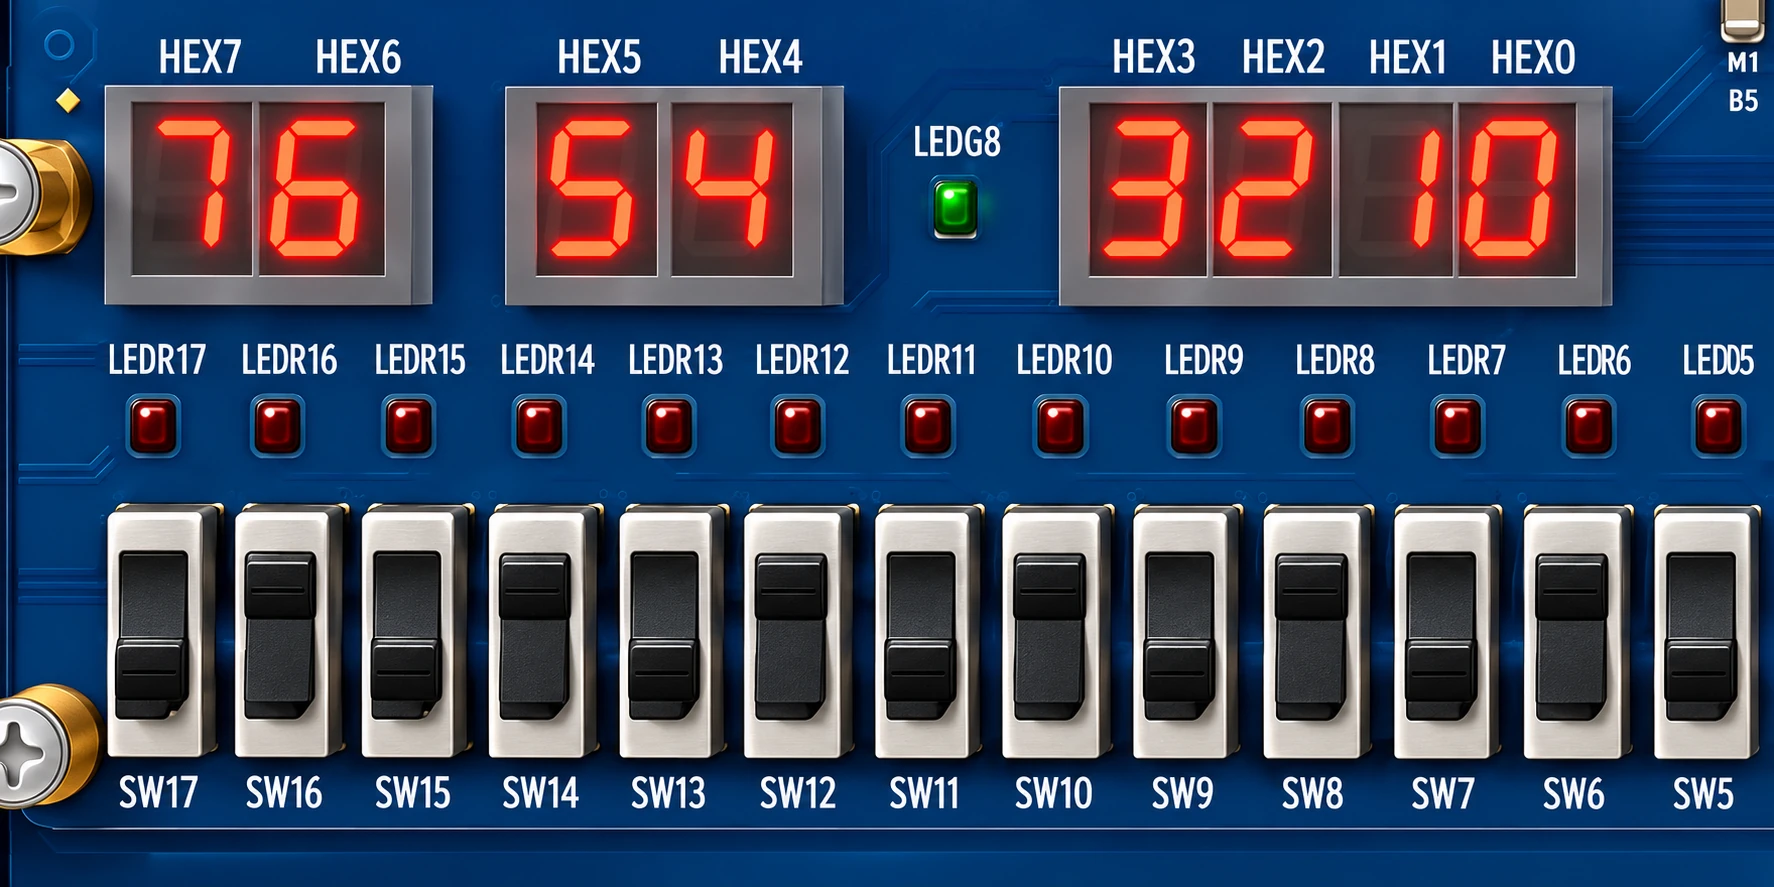
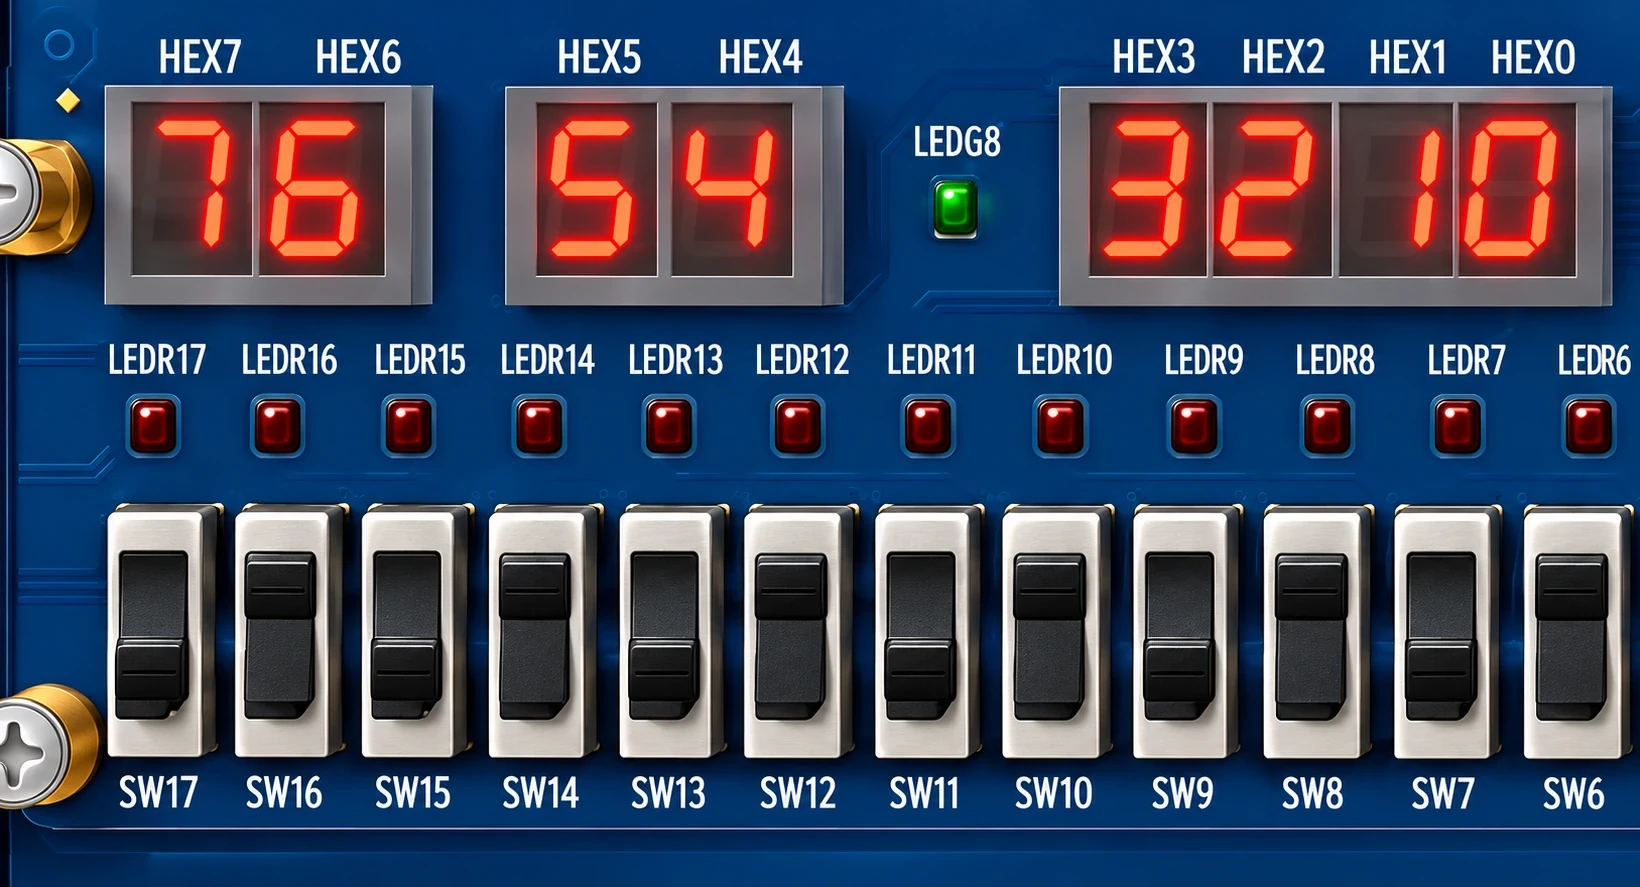
chore: site fixes from audit
- Meta description, Open Graph/Twitter card image, web manifest
- Real simulator imagery on the landing page; WebP assets; remove unused images
- README and CI updates (DE2 renderer tests in CI), TypeScript strict mode
- English user-facing messages

diff --git a/index.html b/index.html
@@ -11,6 +11,22 @@
     <link rel="apple-touch-icon" sizes="180x180" href="/apple-touch-icon.png" />
     <meta name="viewport" content="width=device-width, initial-scale=1.0" />
     <title>Logic Lab — Digital Logic Simulation</title>
+    <meta name="description" content="Write Verilog/SystemVerilog in the browser, run it on a virtual Altera DE2 board, and inspect waveforms and synthesized RTL schematics. No installation required." />
+    <meta name="theme-color" content="#081424" />
+    <link rel="canonical" href="https://lab.maliyildirimtr.com/" />
+    <link rel="manifest" href="/manifest.webmanifest" />
+    <meta property="og:type" content="website" />
+    <meta property="og:site_name" content="Logic Lab" />
+    <meta property="og:title" content="Logic Lab — Build digital logic. See it behave." />
+    <meta property="og:description" content="Browser-based FPGA lab: Verilog/SystemVerilog, a virtual Altera DE2 board, waveforms and RTL schematics." />
+    <meta property="og:url" content="https://lab.maliyildirimtr.com/" />
+    <meta property="og:image" content="https://lab.maliyildirimtr.com/og-image.png" />
+    <meta property="og:image:width" content="1200" />
+    <meta property="og:image:height" content="630" />
+    <meta name="twitter:card" content="summary_large_image" />
+    <meta name="twitter:title" content="Logic Lab — Build digital logic. See it behave." />
+    <meta name="twitter:description" content="Browser-based FPGA lab: Verilog/SystemVerilog, a virtual Altera DE2 board, waveforms and RTL schematics." />
+    <meta name="twitter:image" content="https://lab.maliyildirimtr.com/og-image.png" />
   </head>
   <body>
     <div id="root"></div>

diff --git a/src/components/landing/ToolShowcase.tsx b/src/components/landing/ToolShowcase.tsx
@@ -20,10 +20,10 @@ const TOOLS: Tool[] = [
     name: 'DE2 Simulator',
     to: '/de2-simulator',
     summary: 'Interact with the board directly from your HDL design.',
-    screenshot: '/landing/screens/de2-board-closeup-v2.webp',
-    alt: 'DE2 board close-up with the character LCD, HEX7–HEX0 displays, red and green LEDs, slide switches and push buttons',
-    width: 1947,
-    height: 808,
+    screenshot: '/landing/screens/de2-board-io.webp',
+    alt: 'The virtual DE2 board in the simulator: character LCD, HEX7–HEX0 displays, red and green LEDs, slide switches and push buttons',
+    width: 1112,
+    height: 507,
     modifier: 'de2',
   },
   {
@@ -53,10 +53,10 @@ const TOOLS: Tool[] = [
     name: 'Examples',
     to: '/examples',
     summary: 'Start from verified learning designs.',
-    screenshot: '/landing/screens/examples-v2.webp',
-    alt: 'Example cards for Basic Logic Gates, Half Adder, Full Adder, 2:1 and 4:1 multiplexers and a 2-to-4 decoder',
-    width: 1965,
-    height: 800,
+    screenshot: '/landing/screens/examples-card.webp',
+    alt: 'Examples library with Basic Logic Gates, Half Adder, Full Adder, multiplexers and a decoder',
+    width: 1260,
+    height: 513,
     modifier: 'examples',
   },
 ];

diff --git a/src/components/landing/landing.css b/src/components/landing/landing.css
@@ -393,10 +393,10 @@
   object-fit: cover;
 }
 
-.lx-tool--de2 .lx-tool__shot img { object-position: 50% 50%; }
+.lx-tool--de2 .lx-tool__shot img { object-position: 0% 60%; }
 .lx-tool--waveform .lx-tool__shot img { object-position: 0% 50%; }
 .lx-tool--schematic .lx-tool__shot img { object-position: 50% 50%; }
-.lx-tool--examples .lx-tool__shot img { object-position: 50% 50%; }
+.lx-tool--examples .lx-tool__shot img { object-position: 0% 0%; }
 
 /* ═══ 5 · Workflow ═══════════════════════════════════════════════ */
 .lx-flow {

diff --git a/src/components/landing/ProductShowcase.tsx b/src/components/landing/ProductShowcase.tsx
@@ -51,7 +51,7 @@ export function ProductShowcase() {
         <Reveal as="figure" className="lx-showcase__visual" delay={90}>
           <div className="lx-showcase__frame">
             <img
-              src="/landing/screens/de2-simulator-showcase.png"
+              src="/landing/screens/de2-simulator-showcase.webp"
               alt="DE2 Simulator workspace: project sidebar, virtual DE2 board, and inspector with pin mapping and clock controls"
               width={1775}
               height={1044}

diff --git a/src/components/landing/Hero.tsx b/src/components/landing/Hero.tsx
@@ -42,7 +42,7 @@ export function Hero() {
         <figure className="landing-hero-product__visual">
           <div className="landing-hero-product__board">
             <img
-              src="/landing/screens/de2-simulator-hero.png"
+              src="/landing/screens/de2-simulator-hero.webp"
               alt="Virtual Altera DE2 board with LCD, HEX displays, LEDs, slide switches, push buttons and I/O connectors"
               width={2048}
               height={925}

diff --git a/src/components/landing/TeachingSection.tsx b/src/components/landing/TeachingSection.tsx
@@ -39,7 +39,7 @@ export function TeachingSection() {
             <img
               src="/landing/screens/de2-demonstration-v2.webp"
               alt="DE2 board with HEX7 to HEX0 showing 7 6 5 4 3 2 1 0 above the red LEDs and slide switches"
-              width={1774}
+              width={1640}
               height={887}
               loading="lazy"
               decoding="async"

diff --git a/src/services/hardwareSimulator.ts b/src/services/hardwareSimulator.ts
@@ -65,7 +65,7 @@ function getOrCreateWorker(): Worker {
       resolve({
         status: 'error',
         vcdOutput: '',
-        logs: ['[WORKER] Worker çöktü, yeniden başlatılıyor.', `[HATA] ${err.message}`],
+        logs: ['[WORKER] Compiler worker crashed; restarting.', `[ERROR] ${err.message}`],
       });
     }
     _pending.clear();

diff --git a/README.md b/README.md
@@ -8,13 +8,18 @@ Browser-based learning tools for digital logic and Electrical & Electronics Engi
 
 | Route | Tool | Current behavior |
 |---|---|---|
-| `#/de2-simulator` | DE2 Simulator | Runs a supported Verilog/SystemVerilog subset in a safe TypeScript evaluator. Switches and buttons drive HDL inputs; LEDs and seven-segment displays show mapped outputs. The board is drawn as an SVG illustration of the original Terasic DE2 in a 2D or 2.5D view. The LCD is currently visual-only. |
+| `#/de2-simulator` | DE2 Simulator | Runs a supported Verilog/SystemVerilog subset in a safe TypeScript evaluator. Switches and buttons drive HDL inputs; LEDs, seven-segment displays and the 16×2 character LCD (HD44780 interface) show mapped outputs. The board is drawn from the original Terasic DE2 in a 2D or 2.5D view. |
 | `#/waveform` | Waveform | Compiles source and a testbench with local Icarus Verilog WebAssembly in a worker, parses VCD output, and renders interactive timing diagrams. |
 | `#/schematic` | Schematic | Synthesizes HDL with local Yosys WebAssembly and renders an interactive DigitalJS circuit in `SchematicViewport`. |
-| `#/examples` | Examples | Provides 14 curated examples. All open in Schematic and Waveform; 7 also include DE2 mappings. |
+| `#/examples` | Examples | Provides 16 curated examples, from single gates to board-level I/O and the LCD. |
 | `#/` | Home | Platform overview and tool entry points. |
 
-The application is a hash-routed SPA. `#/projects` remains as a compatibility alias for `#/examples`.
+The application is a hash-routed SPA. `#/projects` remains as a compatibility alias for `#/examples`; unknown routes show a 404 page.
+
+### Workspace persistence and sharing
+
+- Each tool autosaves its HDL project to `localStorage` (`logiclab_<tool>_workspace_v1`), so a refresh or closed tab does not lose work. Only source text is stored, never simulation or synthesis output.
+- Tool pages are lazy-loaded route chunks. Monaco is loaded only by pages with an editor and is limited to the Verilog/SystemVerilog grammar (`src/lib/monacoSetup.ts`); jQuery and DigitalJS are loaded only by the Schematic viewport.
 
 ## Simulation architecture
 
@@ -37,12 +42,11 @@ Monaco, jQuery, jQuery UI, DigitalJS, Yosys, and the Icarus assets are bundled o
 ### Current limitations
 
 - The DE2 evaluator supports educational combinational and sequential examples, not the full IEEE 1364/1800 language. Unsupported constructs fail closed.
-- The DE2 LCD is a board mock-up and is not connected to HDL output state; it is drawn unlit.
+- The DE2 LCD is simulated functionally (commands and characters), not with real HD44780 timing.
 - The 3D board view is not implemented. It appears in the view selector as disabled.
 - VHDL is not supported.
 - Icarus WebAssembly has a cold-start cost on the first waveform compile and does not provide every SystemVerilog feature.
 - Yosys is used for synthesis, not testbench simulation. Large schematics may be slow in the browser.
-- Route-level lazy splitting and additional strict-mode cleanup are future improvements, not release blockers.
 
 ## Getting started
 
